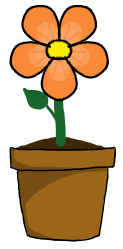
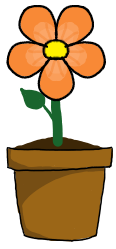
i added a background and changed where the pots are

diff --git a/sketch.js b/sketch.js
@@ -35,6 +35,7 @@ let purpleflowerinpotImg;
 let redflowerinpotimg;
 let sproutImg;
 let whiteflowerinpotImg;
+let greenhouse;
 
 function preload(){
   blueflowerinpotImg = loadImage("pictures/blue flower in pot.png");
@@ -47,11 +48,13 @@ function preload(){
   redflowerinpotimg = loadImage("pictures/red flower in pot.png");
   sproutImg = loadImage("pictures/sprout.png");
   whiteflowerinpotImg = loadImage("pictures/white flower in pot.png");
+  greenhouse = loadImage("pictures/greenhouseUNFINISHED.png");
 
 }
 
 
 function setup() {
+  imageMode(CENTER);
   createCanvas(windowWidth, windowHeight);
   rectMode(CENTER);
   createpots();
@@ -59,8 +62,10 @@ function setup() {
 }
 
 function draw() {
-  background(220);
+  background(155, 255, 255);
+  
   if (room === 1){
+    image(greenhouse, 1500/2+5, 505);
     draw_pots();
     draw_seeds();
   }
@@ -99,12 +104,9 @@ function draw_pots(){
   fill("white");
 
   for (let i = 0; i < pots.length; i++){
-    if (i < 3){
-      image(pots[i].image, 400 + 200*i, 100);
-    }
-    else{
-      image(pots[i].image, 400 + 200*(i-3), 400);
-    }
+    
+    image(pots[i].image, 125 + 185*i, 600, 160, 312);
+    
   }
 
  
